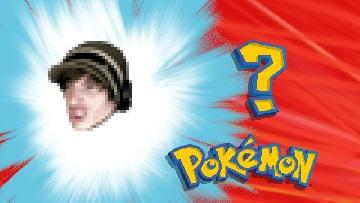
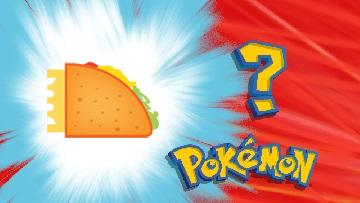
fix for combining images - ty nick fam

Changed region(s): [[0.1222, 0.1773, 0.4583, 0.6798]]

diff --git a/src/main/java/com/Nate/LongTTSBot/Utility.java b/src/main/java/com/Nate/LongTTSBot/Utility.java
@@ -197,10 +197,13 @@ public class Utility {
         int h = image.getHeight();
         BufferedImage combinedImage = new BufferedImage(w, h, BufferedImage.TYPE_INT_RGB);
 
+
         //draw images
         Graphics g = combinedImage.getGraphics();
+        int xx = 103-(overlay.getWidth()/2);
+        int yy = 101-(overlay.getHeight()/2);
         g.drawImage( image, 0, 0, null);
-        g.drawImage( overlay, startX, startY, null);
+        g.drawImage( overlay, xx, yy, null);
 
         //save as new image
         ImageIO.write( combinedImage, "JPG", result );
